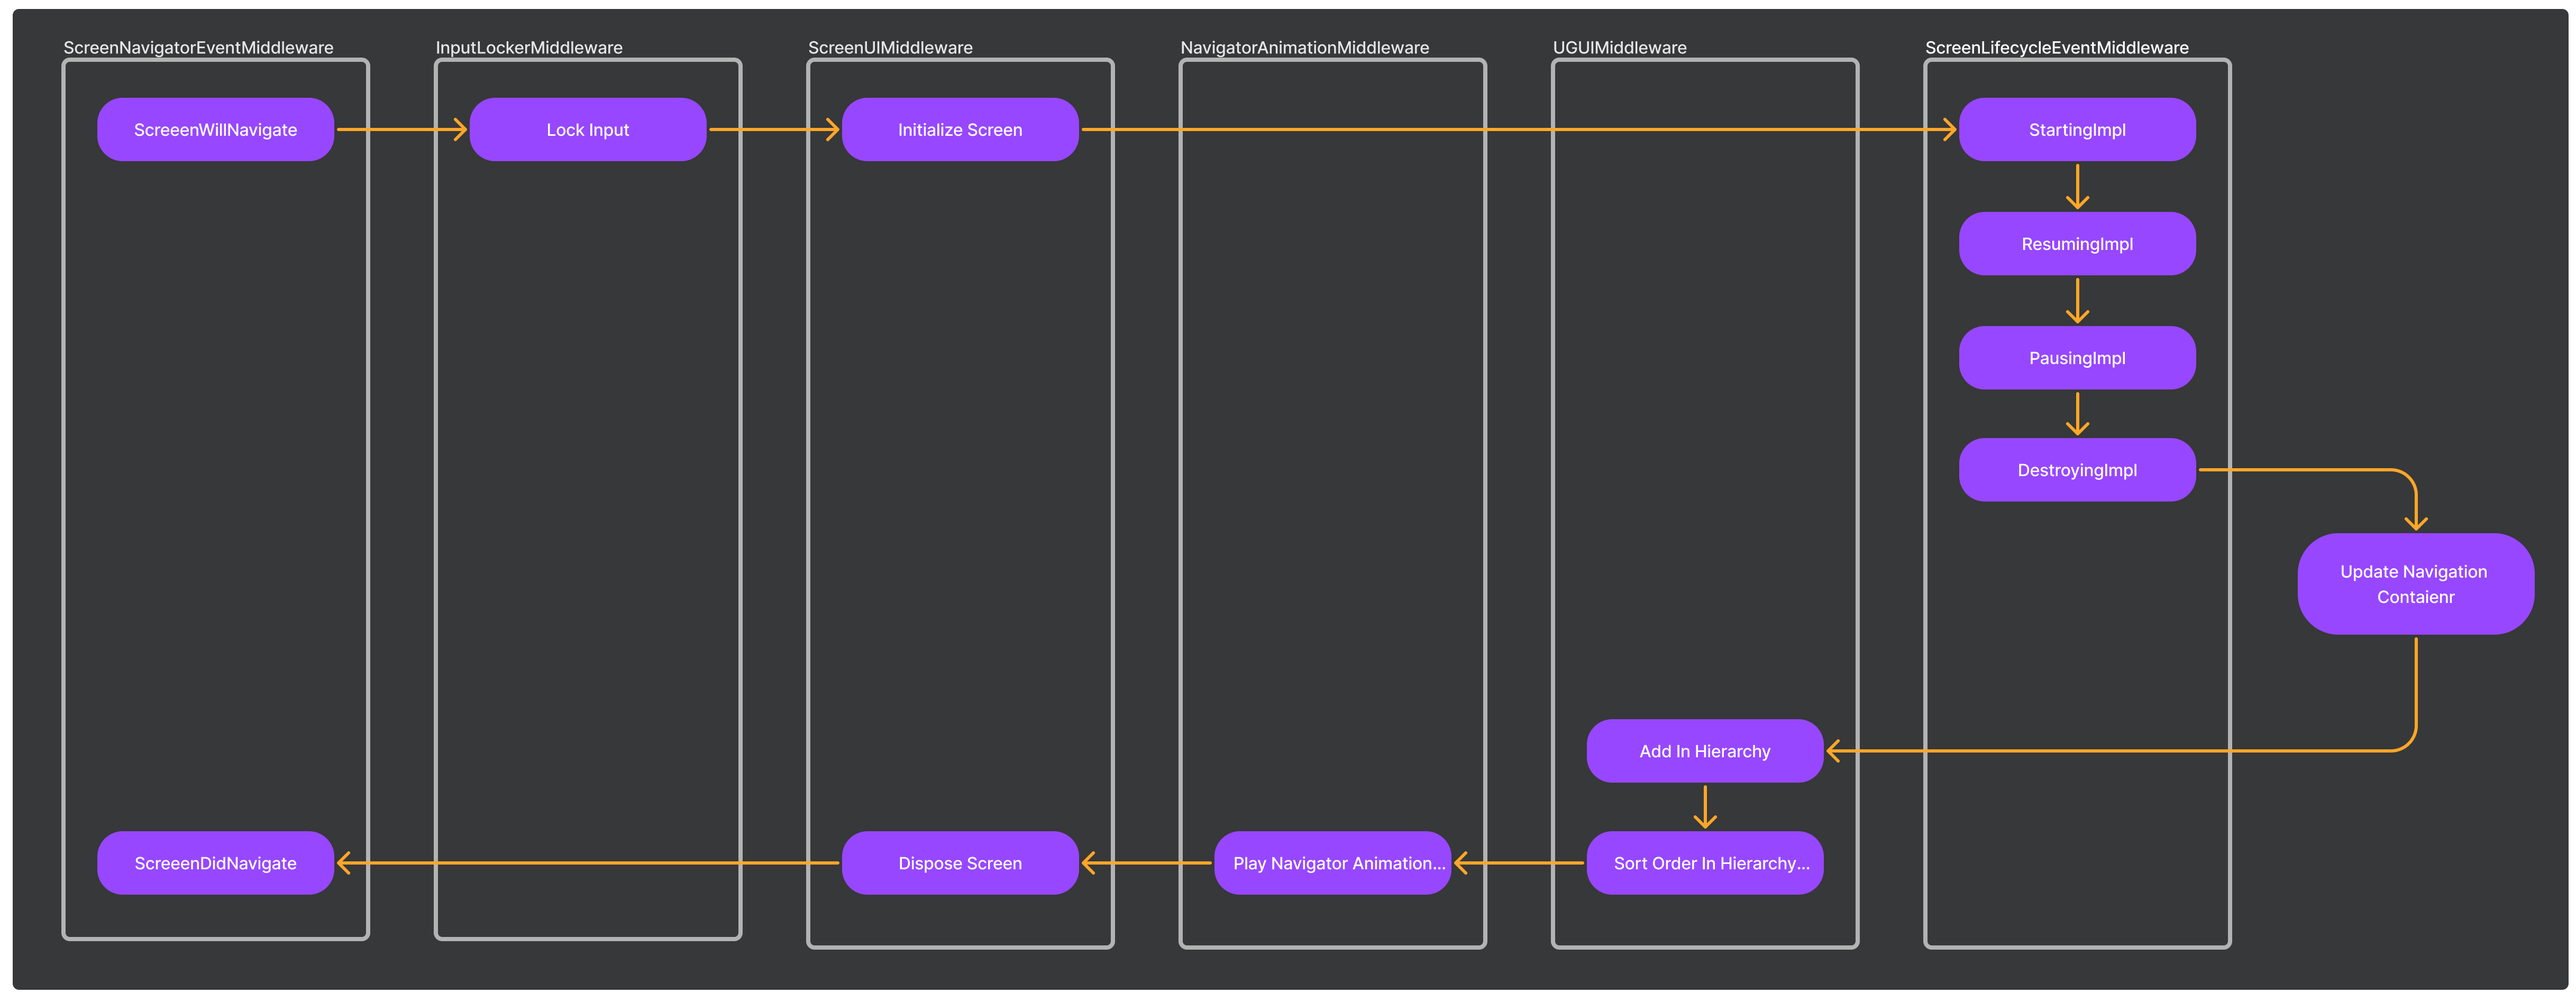
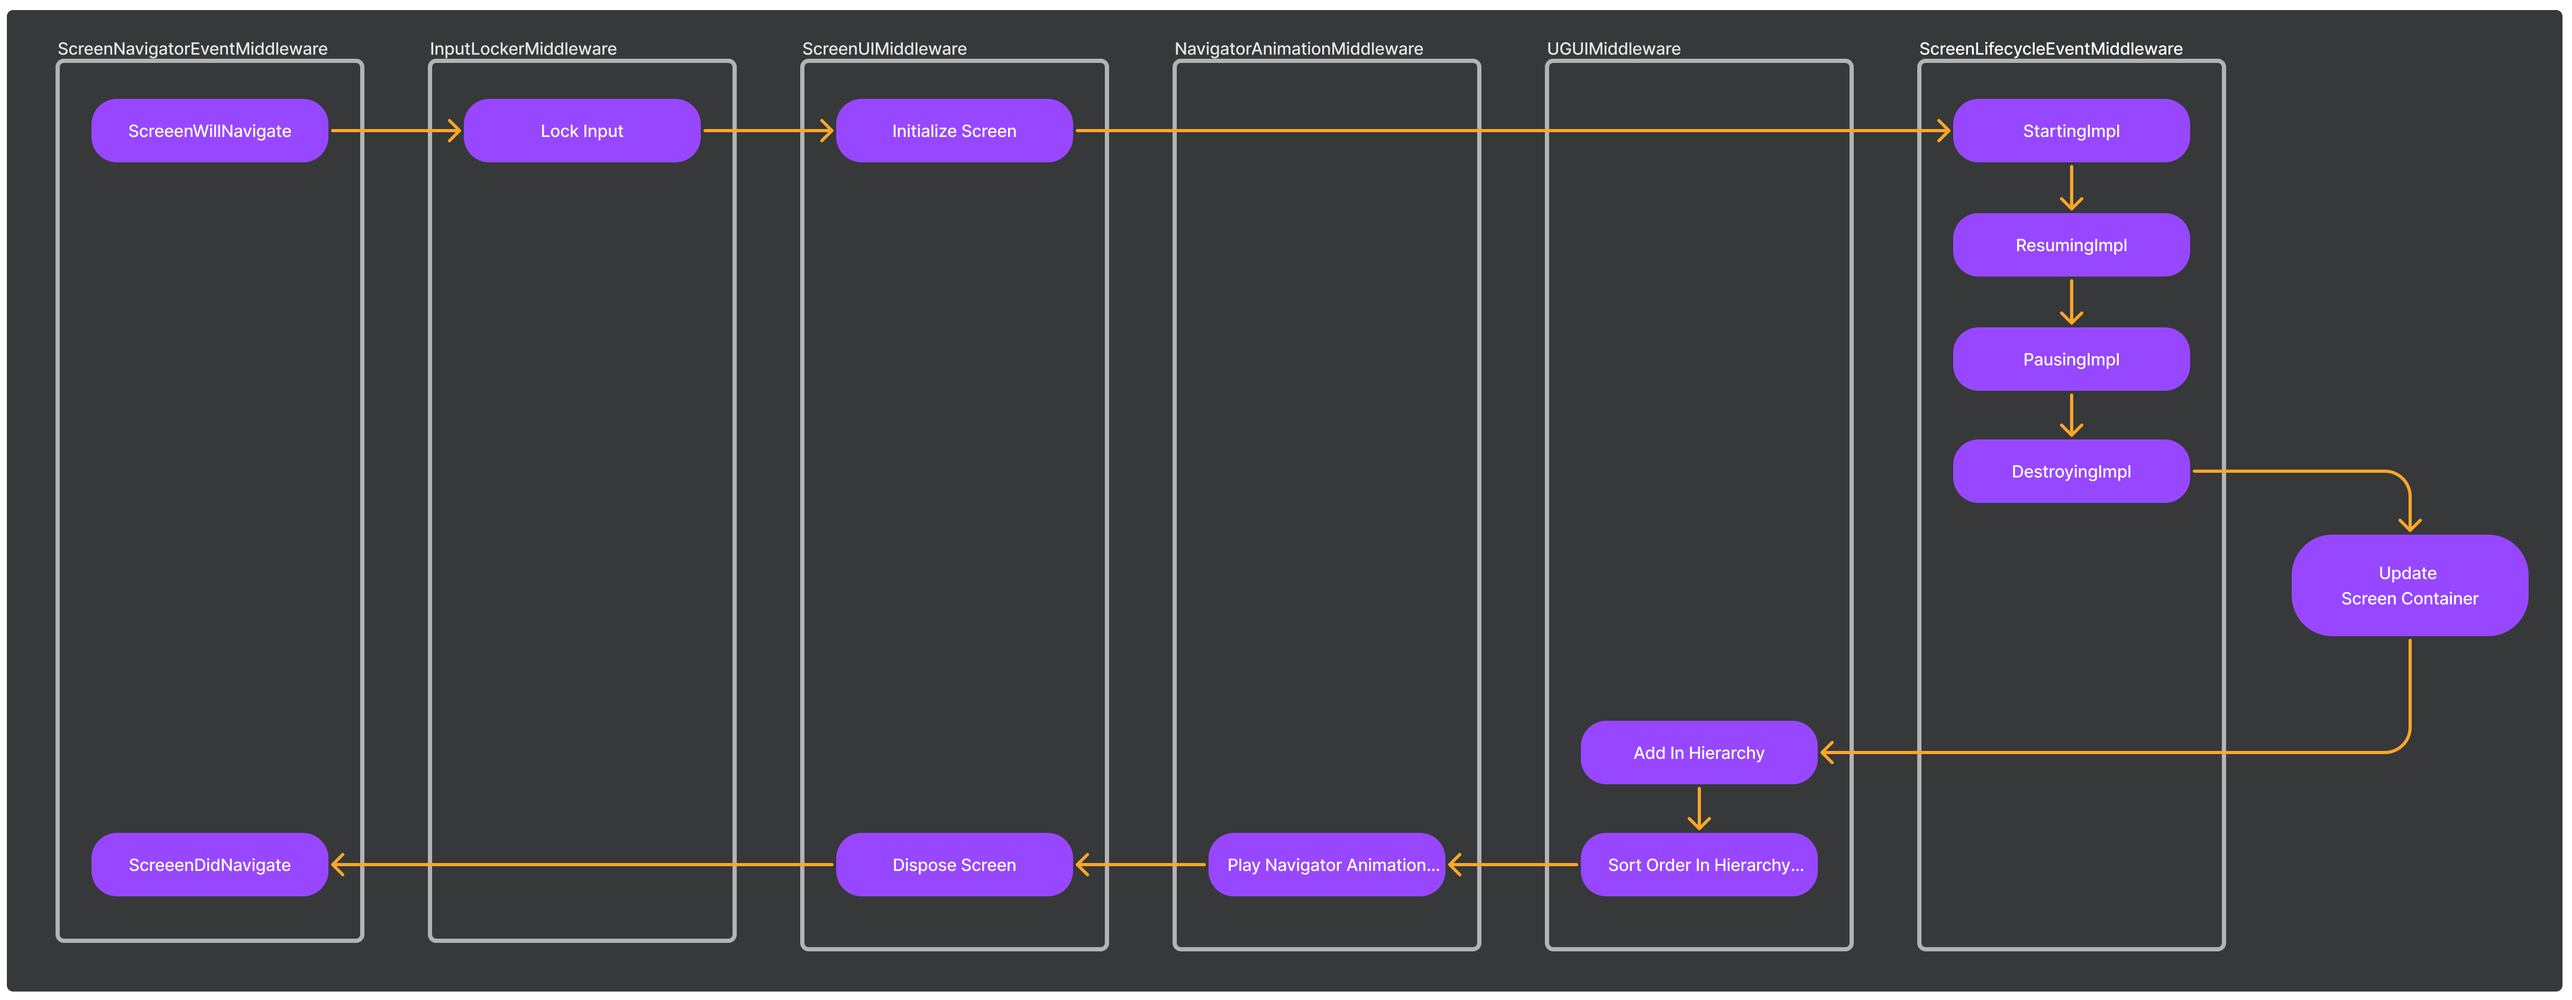
[FIX] refactor

diff --git a/Assets/Packages/Meek/Runtime/Navigator/NavigatorBuilderOption.cs b/Assets/Packages/Meek/Runtime/Navigator/NavigatorBuilderOption.cs
@@ -6,15 +6,15 @@ namespace Meek
     {
         public IContainerBuilder ContainerBuilder;
 
-        private Type _screenNavigator;
+        private Type _screenContainer;
         
-        public Type ScreenNavigator
+        public Type ScreenContainer
         {
-            get => _screenNavigator;
+            get => _screenContainer;
             set
             {
                 value.AssertImplementation<IScreenContainer>();
-                _screenNavigator = value;
+                _screenContainer = value;
             }
         }
     }

diff --git a/Assets/Packages/Meek.MVP/Runtime/StackNavigator.cs b/Assets/Packages/Meek.MVP/Runtime/StackNavigator.cs
@@ -33,7 +33,7 @@ namespace Meek.MVP
             var stackNavigator = new NavigatorBuilder(navigatorBuilderOption =>
             {
                 navigatorBuilderOption.ContainerBuilder = option.ContainerBuilder;
-                navigatorBuilderOption.ScreenNavigator = typeof(StackScreenContainer);
+                navigatorBuilderOption.ScreenContainer = typeof(StackScreenContainer);
             }).ConfigureServices(serviceCollection =>
             {
                 serviceCollection.AddScreenNavigatorEvent();

diff --git a/Assets/Packages/Meek/Runtime/Navigator/NavigatorBuilder.cs b/Assets/Packages/Meek/Runtime/Navigator/NavigatorBuilder.cs
@@ -19,7 +19,7 @@ namespace Meek
             configure(option);
             
             _containerBuilder = option.ContainerBuilder;
-            _containerBuilder.ServiceCollection.AddSingleton(typeof(IScreenContainer), option.ScreenNavigator);
+            _containerBuilder.ServiceCollection.AddSingleton(typeof(IScreenContainer), option.ScreenContainer);
         }
 
         public NavigatorBuilder ConfigureServices(Action<IServiceCollection> configureServices)

diff --git a/README_JA.md b/README_JA.md
@@ -380,7 +380,7 @@ var stackNavigator = new NavigatorBuilder(navigatorBuilderOption =>
 {
     // Optionパターンで設定を行います。
     navigatorBuilderOption.ContainerBuilder = option.ContainerBuilder;
-    navigatorBuilderOption.ScreenNavigator = typeof(StackScreenContainer);
+    navigatorBuilderOption.ScreenContainer = typeof(StackScreenContainer);
 }).ConfigureServices(serviceCollection =>
 {
     // 必要なServiceをDIコンテナに登録します。
